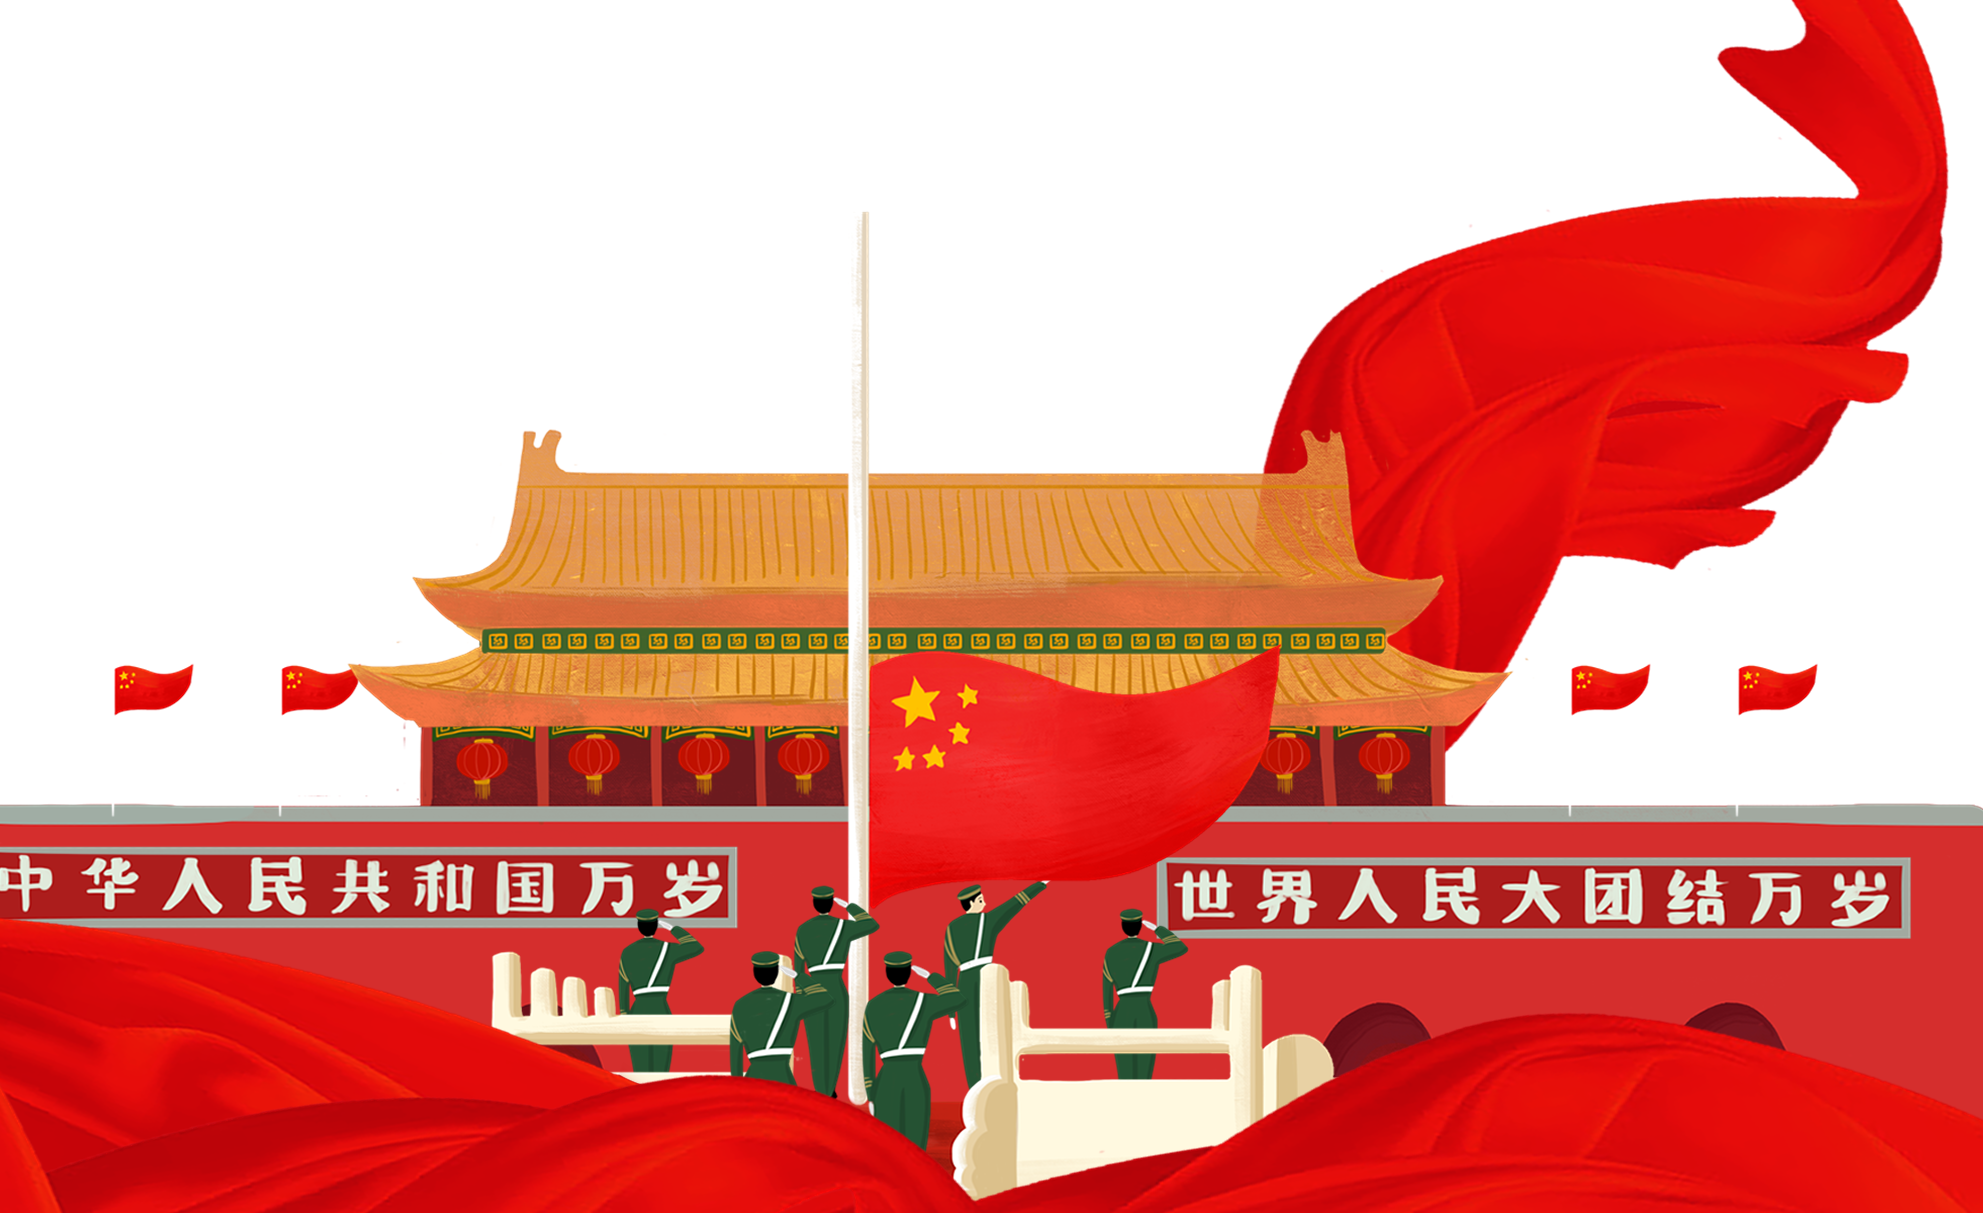
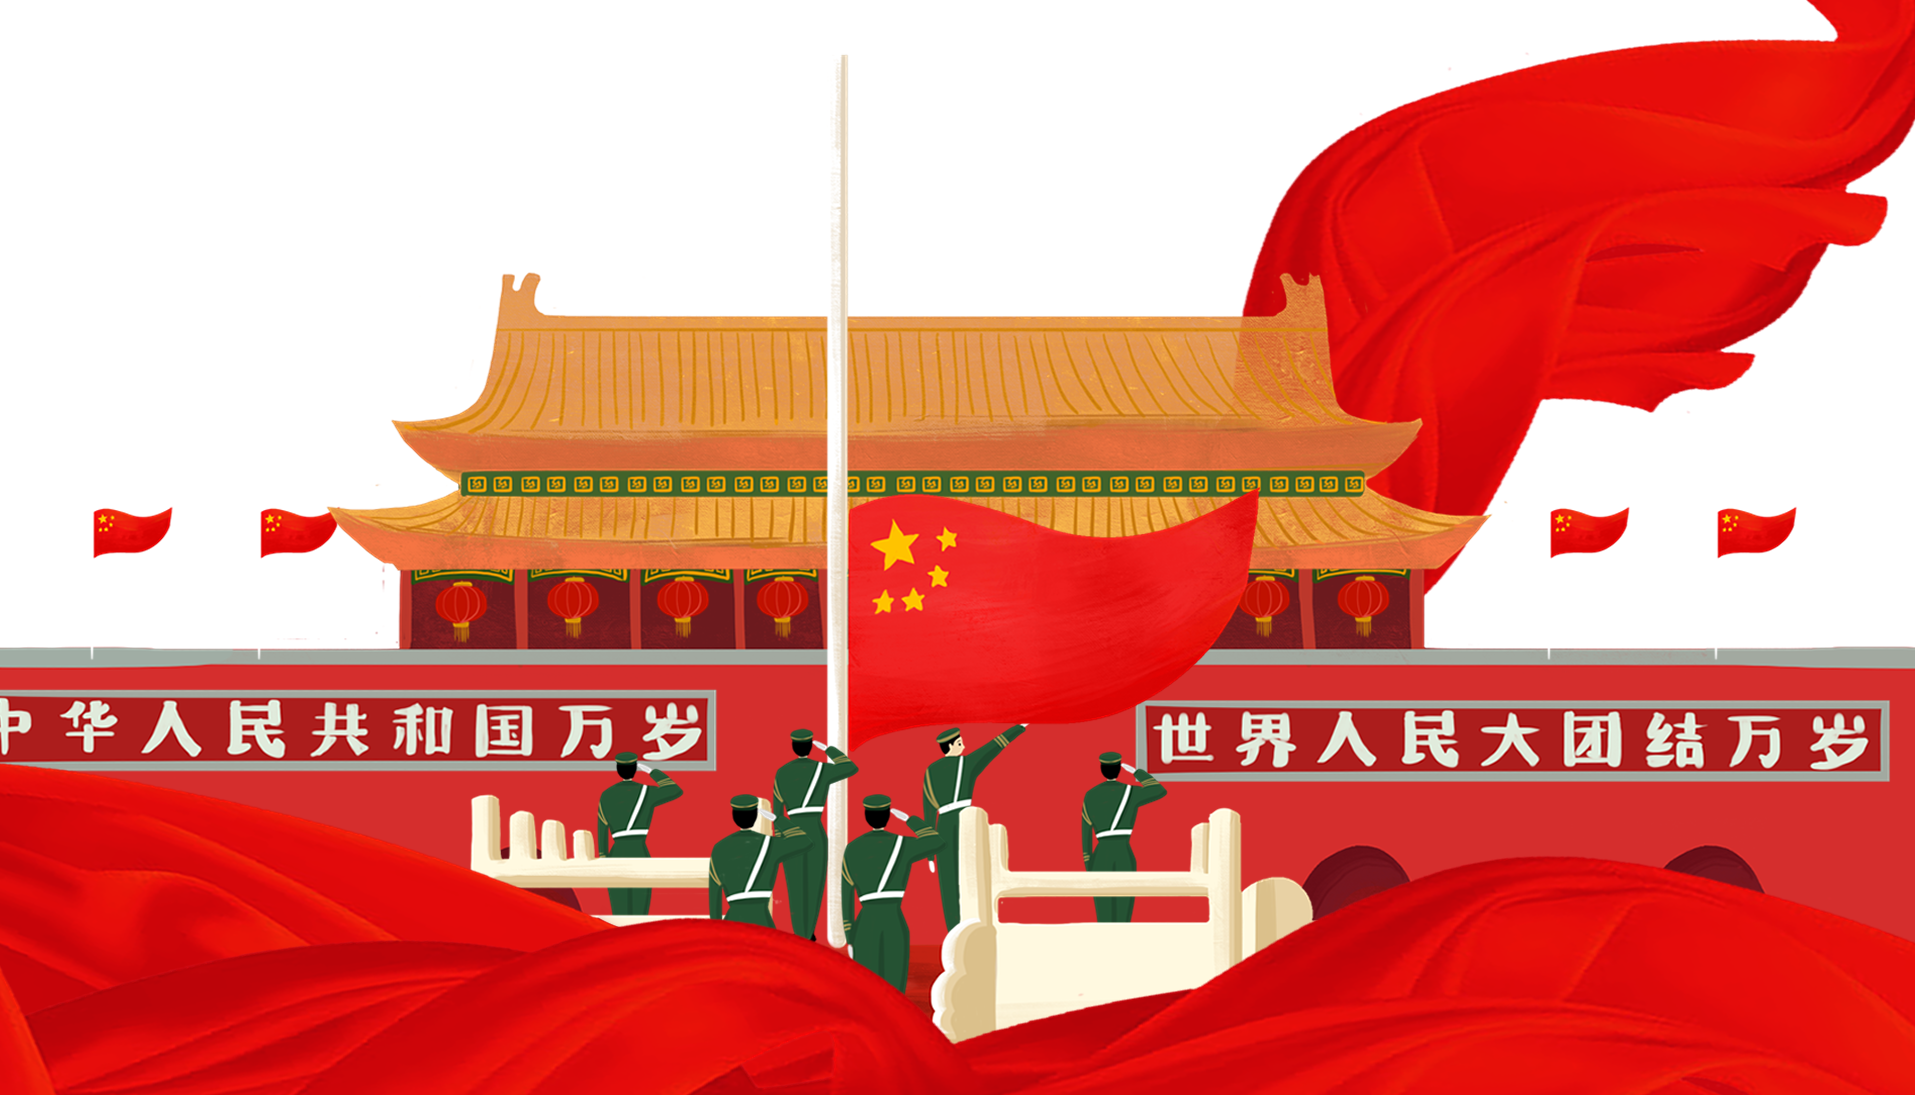
增加图片

diff --git a/src/main/resources/static/index.html b/src/main/resources/static/index.html
@@ -183,7 +183,8 @@
         </div>
         <div class="row" data-aos="fade-up"style="margin: 0px auto">
           <div class="col-md-5">
-            <img src="assets/img/features-1.svg" class="img-fluid" alt="">
+<!--            <img src="assets/img/features-1.svg" class="img-fluid" alt="">-->
+            <img src="assets/img/img3.png" class="img-fluid" alt="">
           </div>
           <div class="col-md-7 pt-4" >
             <ul>
@@ -206,7 +207,7 @@
         </div>
         <div class="row" data-aos="fade-up">
           <div class="col-md-5 order-1 order-md-2">
-            <img src="assets/img/features-1.svg" class="img-fluid" alt="">
+            <img src="assets/img/img4.png" class="img-fluid" alt="">
           </div>
 
             <div class="col-md-7 pt-4">
@@ -232,7 +233,7 @@
         </div>
         <div class="row" data-aos="fade-up">
           <div class="col-md-5">
-            <img src="assets/img/features-1.svg" class="img-fluid" alt="">
+            <img src="assets/img/img5.jpg" class="img-fluid" alt="">
           </div>
           <div class="col-md-7 pt-4">
             <ul>
